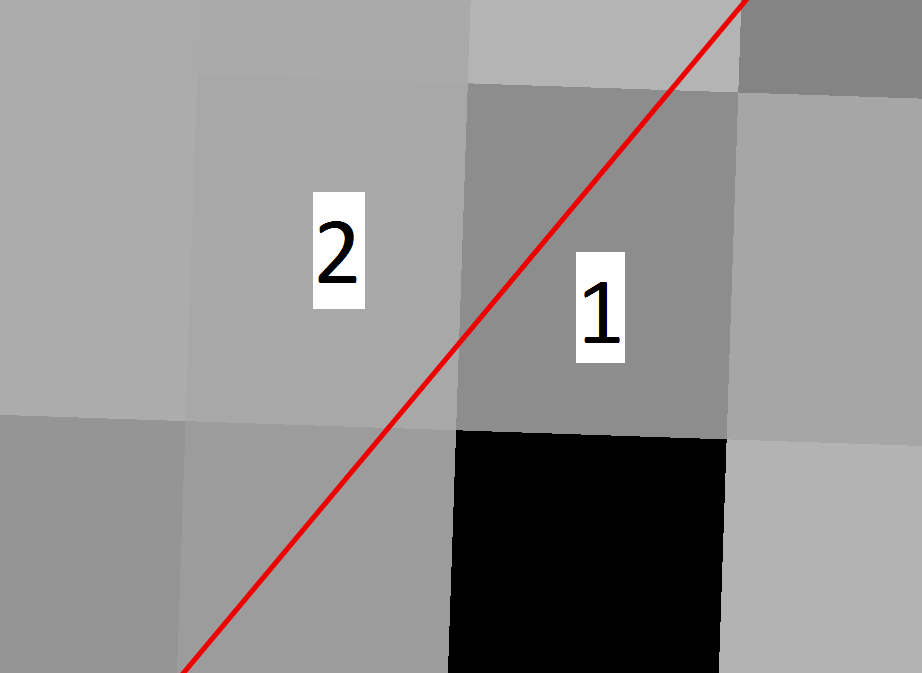
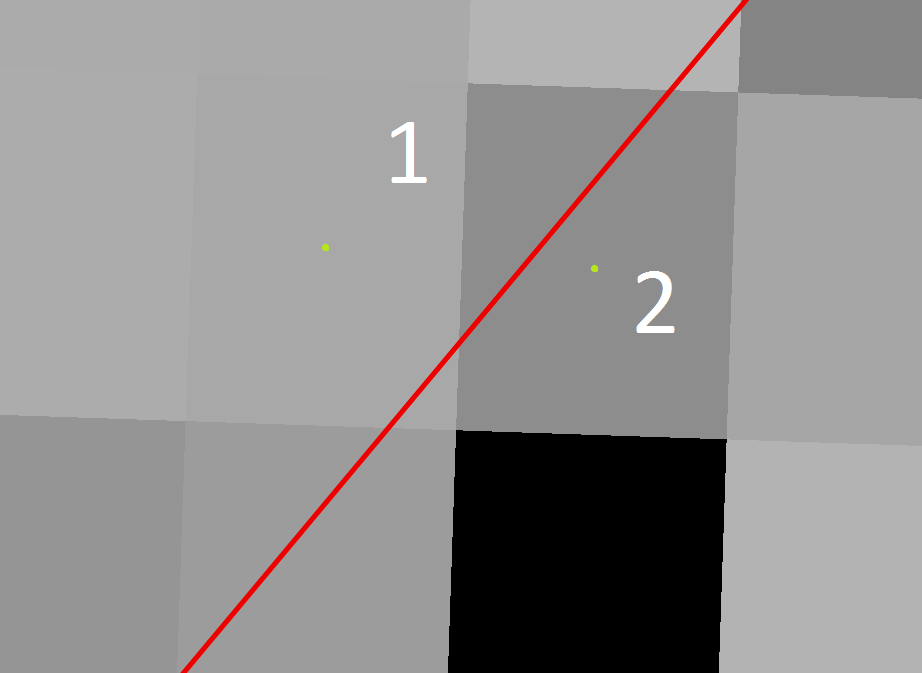
made major changes to the key processing steps regarding how QGIS zonal statistics handles raster cells overlapped by multiple polygon features of the input zonal dataset

Changed region(s): [[0.6074, 0.3744, 0.7289, 0.5617], [0.3341, 0.2808, 0.3948, 0.4681], [0.4252, 0.1872, 0.4555, 0.2808]]

diff --git a/doc-dev-mkdocs-project/docs/software-design/key-processing-steps.md b/doc-dev-mkdocs-project/docs/software-design/key-processing-steps.md
@@ -35,11 +35,15 @@ overlapping polygons.  The code for the QGIS Zonal Statistics tool can be viewed
 # Handling SNODAS cells Overlapped by Multiple Features
 
 The QGIS Zonal Statistic tool calculates statistics on the daily SNODAS raster cells inside of each basin feature. There are scenarios, however, where a SNODAS cell is 
-split by a basin boundary causing the cell to be in two different polygon features at once. The entire cell, however, must be assigned to only one polygon feature.
-The QGIS Zonal Statistics tool assigns the raster cell to the polygon that has the largest proportion of the cell within its boundaries.  
+split by a basin boundary causing the cell to be in two different polygon features at once. However, each raster cell can only be assigned to one polygon. QGIS zonal statistics
+use the location of the cell's center to determine which polygon the cell "belongs".The only scenario where this is not true is if the cell resolution is larger than the 
+polygon area. In that scenario the statistics are based off of weighted proportions. For more infomation about weighted proportions, reference 
+[line 329](https://github.com/qgis/QGIS/blob/a2f51260db5357917e86b78f1bb2915379d670dd/src/analysis/vector/qgszonalstatistics.cpp#L329) of the QGIS Zonal Statistics 
+code. 
 
-An example of the daily SNODAS cells overlapped by multiple features is shown below. The red line is a basin boundary. Using the largest proportion technique, cell 1
-is used to calculate the zonal statistics of the lower-right basin whereas cell 2 is used to calculate the zonal statistics of the upper-left basin.
+An example of the daily SNODAS cells overlapped by multiple features is shown below. The red line is a basin boundary. The green dots represent the center point of each cell.
+Using the cell center technique, cell 1 is used to calculate the zonal statistics of the lower-right basin whereas cell 2 is used to calculate the zonal statistics of the 
+upper-left basin.
 
 <center>![Overlapped Cells](key-processing-images/assign-pixel.png)</center>
 
@@ -50,9 +54,9 @@ Snowfall on large bodies of water, like a lake or reservoir, will react consider
 
 ## Calculating SNODAS Statistics
 
-To mitigate data errors due to this phenomenon
-the SNODAS model applies an open water mask to the landscape assigning open water cells a null value of '55527'. The SWE statistics, therefore, are only representative 
-of non-water areas. 
+To mitigate data errors due to this phenomenon the SNODAS model applies an open water mask to the landscape assigning open water cells a null value of '55527'. 
+ The QGIS Zonal Statistics tool disregards cells with no-data values when calculating all output statisiics - count, mean, etc. 
+ The SWE statistics, therefore, are only representative of non-water areas.
 
 The aerial image on the top is of the Eleven Mile Reservoir in Colorado (the basin is outlined in red). The image on the bottom is Eleven Mile Reservoir atop a daily SNODAS 
 raster grid. The grid is set to color null values as white. As shown, the open water body is not included in the SNODAS grid. 
@@ -63,10 +67,7 @@ raster grid. The grid is set to color null values as white. As shown, the open w
  
 ## Calculating Snow Cover Statistics
 
-** egiles TODO 1/26/17 explain the Snow Coverage percentage statistics and how it is affected by the open water mask. I need to talk to Steve first. The way I have the snow
-cover statistic now is that the valuation of presence/absence of snow comes from the SWE grid (so null bodies of water will not be included in the snow cover area.). But
-to calculate the statistic, the total cells with presence is divided over the total count of cells in the polygon. This will mean that even null values are included in 
-the total sum and will therefore make some basin snow coverage percent never to reach 100%** 
+** egiles TODO 1/26/17 need to fix the snow cover layer so that the null values are read by the zonal statistics tool. This means that the null values must have a value of -9999.**
 
 # Handling Missing SNODAS Values
 
